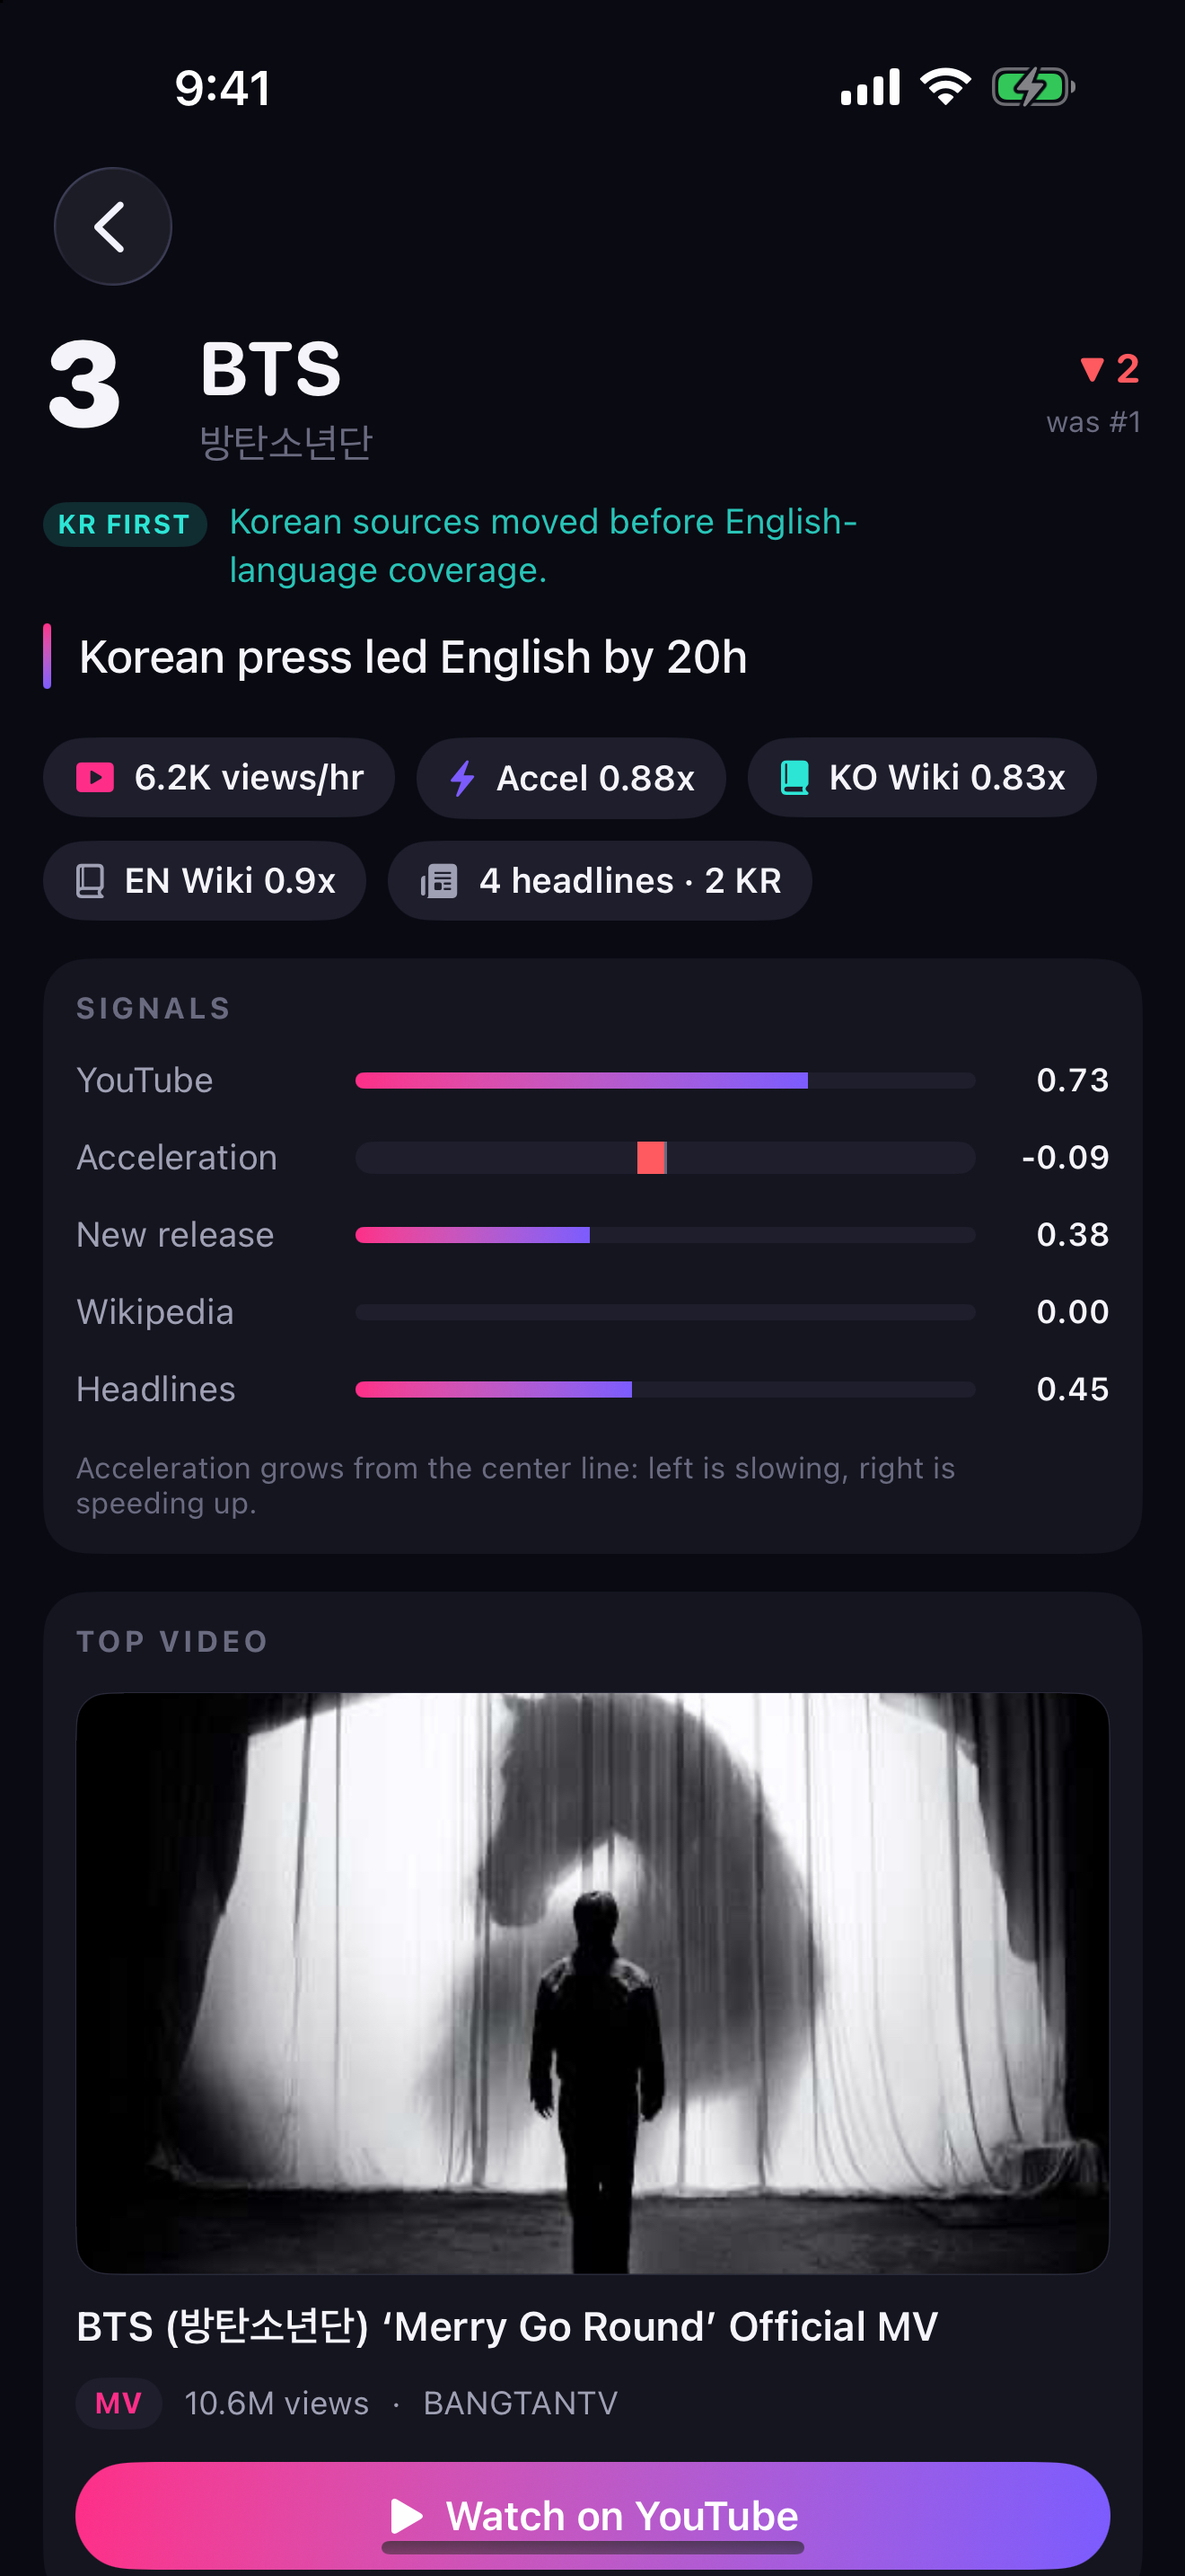
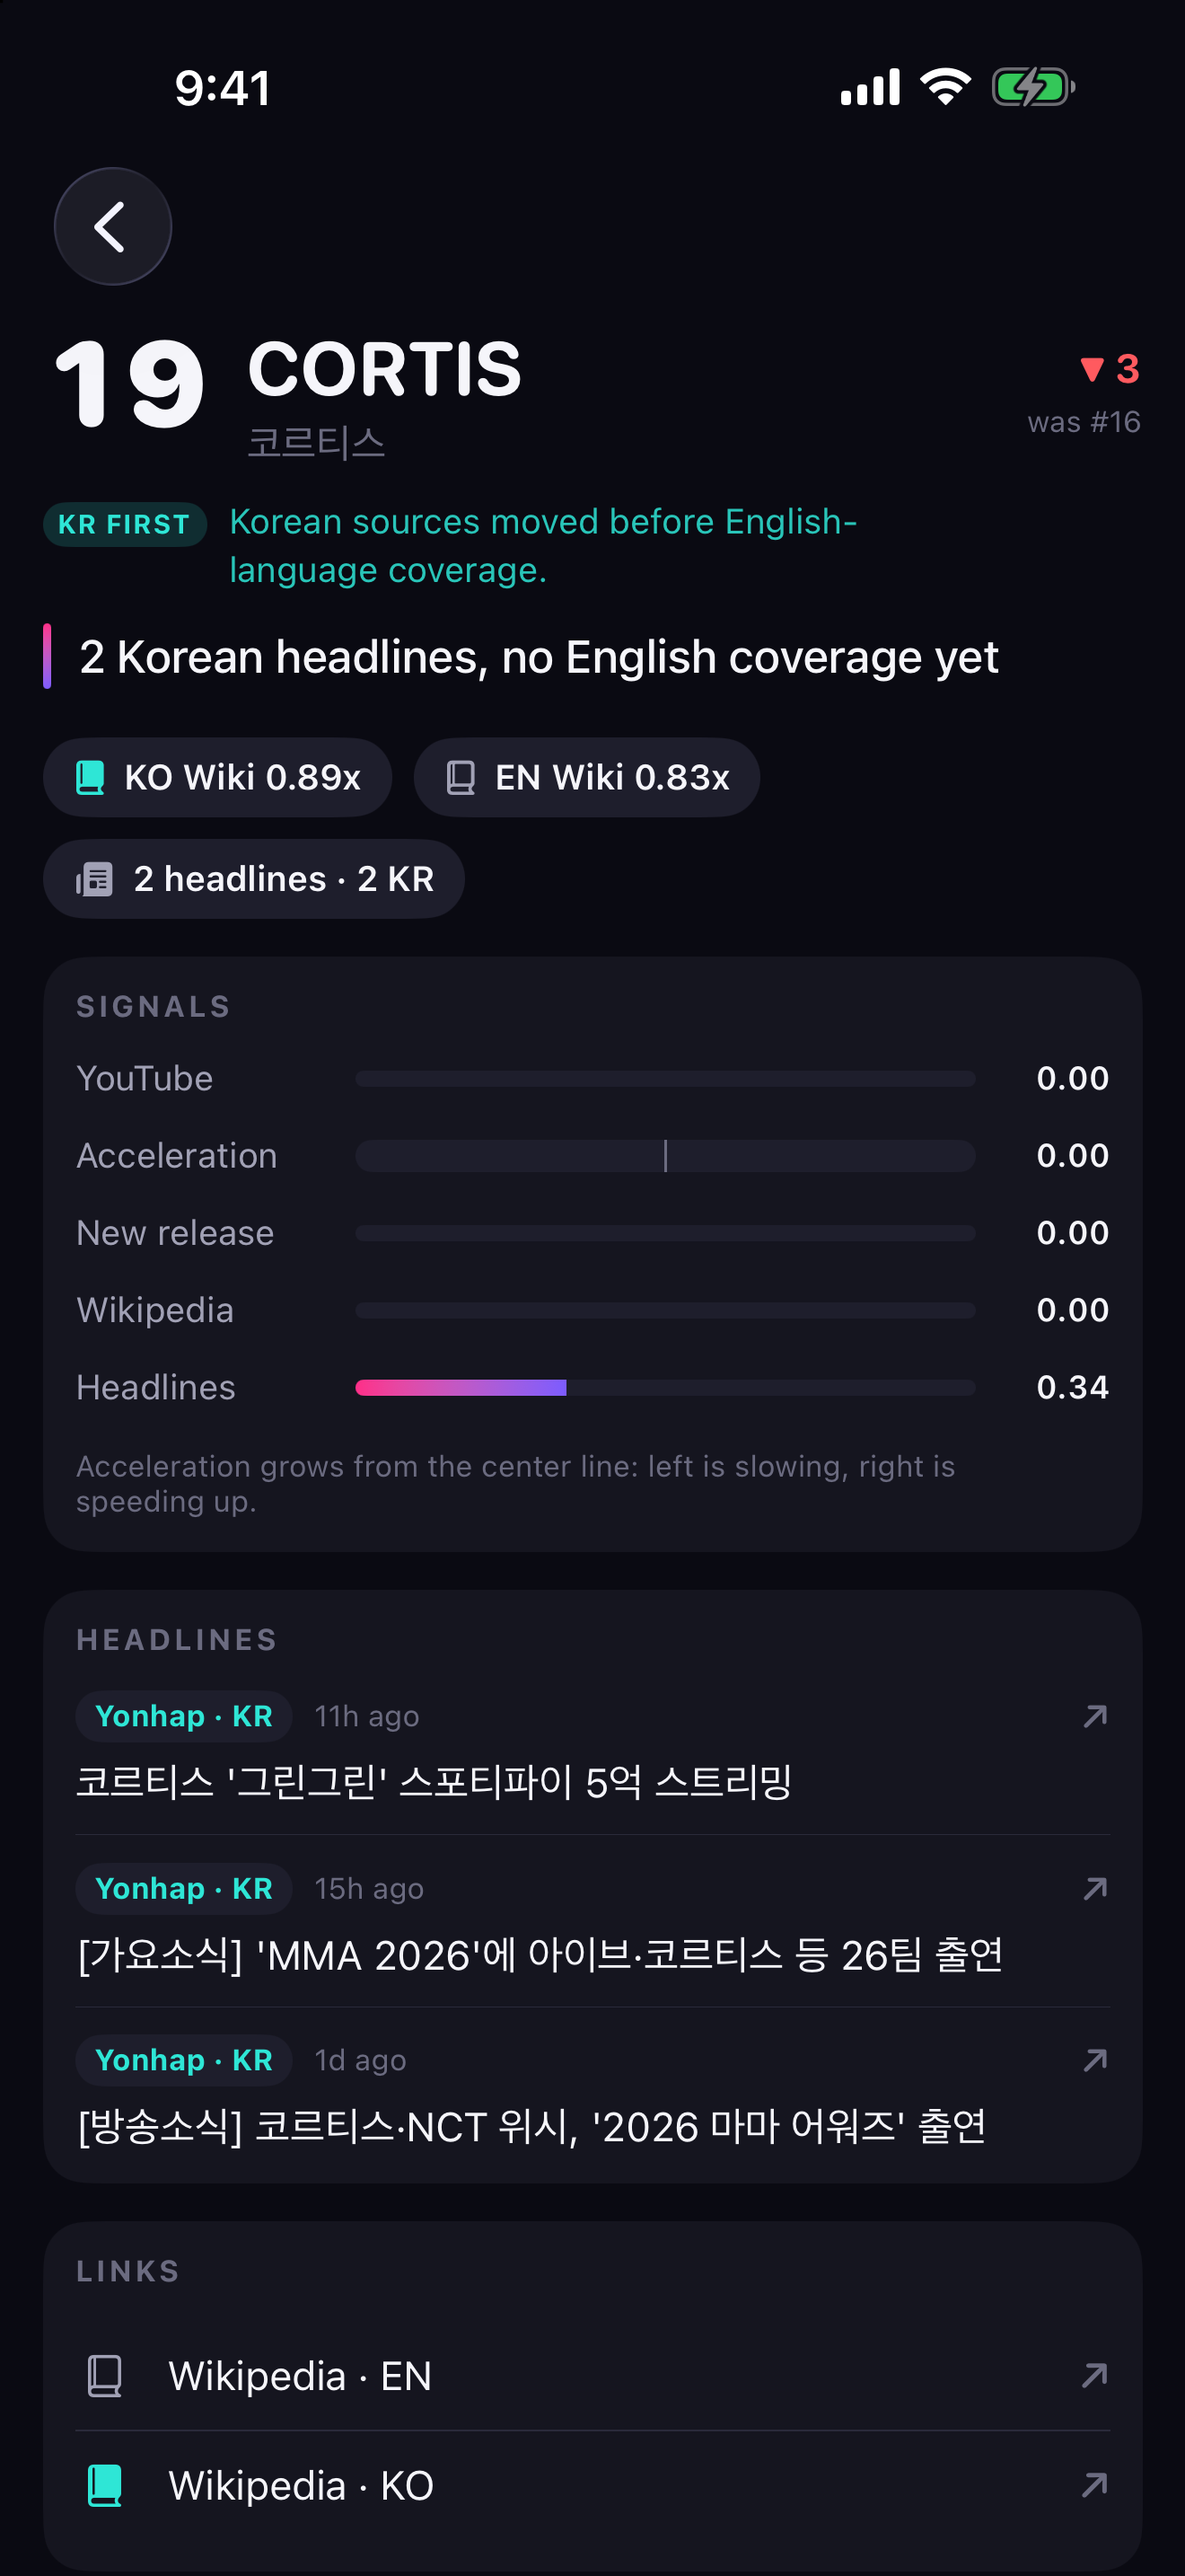
Retake App Store screenshots 02 and 03, drop clipped 05, document upload order

diff --git a/docs/appstore/metadata.md b/docs/appstore/metadata.md
@@ -163,19 +163,18 @@ Not needed for 1.0.
 
 ## Guideline risk notes
 
-- **2.3.7 / 5.2 (names and third-party IP):** the name, subtitle, promotional text, keywords and description name no artist, label or agency. Screenshots do show artist names, because the ranking is the product; they are used descriptively as factual trend data, and the description carries the fan-made, not-affiliated disclaimer. **`02-detail.png` shows a YouTube video thumbnail** (a still from an official music video). That is third-party artwork and a possible 5.2 issue. Decide whether to upload it, or retake the detail shot on an item without a thumbnail.
+- **2.3.7 / 5.2 (names and third-party IP):** the name, subtitle, promotional text, keywords and description name no artist, label or agency. Screenshots do show artist names, because the ranking is the product; they are used descriptively as factual trend data, and the description carries the fan-made, not-affiliated disclaimer. `02-detail.png` was retaken on an item with no top video (CORTIS, rank 19), so it contains no YouTube thumbnail or other third-party artwork. If the detail shot is ever retaken on an item that has a top video, it will show a music-video still, which is a possible 5.2 issue.
 - **No superlatives:** no "best", "#1" or "top app" claims.
 - **4.2 (minimum functionality):** the app is a data product with widgets, detail screens, deep links and offline fallback, not a thin web wrapper.
 - **5.1.2 / data use:** nothing is collected; the privacy policy URL is the one above.
 
 ## Screenshot set (6.9" iPhone, 1320x2868, no alpha)
 
-Files are in `docs/appstore/screenshots/`. Suggested upload order: 01, 05 (or 03), 02, 04.
+Files are in `docs/appstore/screenshots/`. Recommended upload order: 01-list, 03-widgets, 02-detail; 04-settings is optional (add it as a fourth if you want to show feed and source status).
 
 | File | Shows |
 |---|---|
 | `01-list.png` | Home: Live ranking with a KR FIRST entry |
-| `02-detail.png` | Detail view of a KR FIRST item (contains a third-party video thumbnail) |
-| `03-widgets.png` | Home Screen with the Large widget (another app's widget and the dock are visible) |
-| `04-settings.png` | Settings with feed and source status |
-| `05-widget-gallery.png` | In-app widget preview: small, medium and large, no other apps in frame |
+| `02-detail.png` | Detail view of a KR FIRST item (CORTIS) with Korean headlines and no video thumbnail |
+| `03-widgets.png` | Clean Home Screen with a Medium and a Large SeoulPulse widget on live data; only stock Apple dock icons |
+| `04-settings.png` | Settings with feed and source status (optional) |
